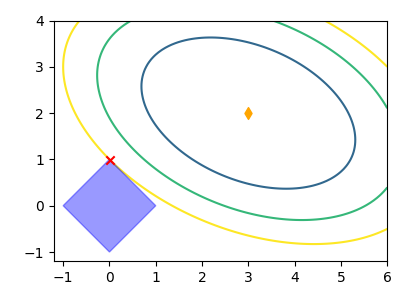
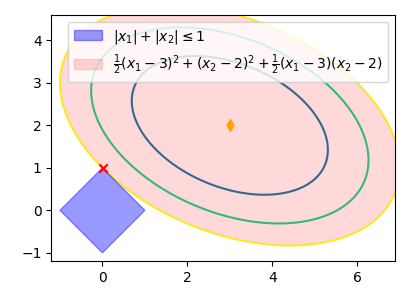
contour_plot.py: make more space to fit a legend with the objective + constraint, add red background for plotted function area, contour_plot.png: updated, README.rst: remove quad_norm.png

diff --git a/contour_plot.py b/contour_plot.py
@@ -25,7 +25,7 @@ import sys
 _HELP_MIN_POINT = """\
 Minimizer of the unconstrained problem. Should be in the format x1,x2. \
 """
-_HELP_THRESHOLD = "Maximum value the 2-norm of the solution can take."
+_HELP_THRESHOLD = "Maximum value the 1-norm of the solution can take."
 _HELP_FIG_HEIGHT = """\
 Height of the resulting figure in inches. The width of the figure is given \
 by (2 * x1 + 1.2 * THRESHOLD) * FIG_HEIGHT / (2 * x2 + 1.2 * THRESHOLD).\
@@ -100,7 +100,7 @@ def exec_main(
     min_point : tuple, default=(3, 2)
         Minimizer of the unconstrained problem.
     threshold : float, default=1.
-        Maximum 2-norm of the constrained solution.
+        Maximum 1-norm of the constrained solution.
     fig_height : float, default=3.
         Height of the resulting figure. The actual (width, height) of the
         figure is (2 * x1 + 1.2 * threshold, 2 * x2 + 1.2 * threshold) scaled
@@ -148,8 +148,8 @@ def exec_main(
     print(f"constrained solution:   {x_hat}")
     # x, y coordinate grids to plot objective contours over
     x_grid, y_grid = np.meshgrid(
-        np.linspace(-1.2 * threshold, 2 * x1, num=n_samples),
-        np.linspace(-1.2 * threshold, 2 * x2, num=n_samples)
+        np.linspace(-1.2 * threshold, 2.3 * x1, num=n_samples),
+        np.linspace(-1.2 * threshold, 2.3 * x2, num=n_samples)
     )
     # compute objective values on grid for contour plot
     f_vals = np.empty(x_grid.shape)
@@ -159,13 +159,14 @@ def exec_main(
     ## plotting of contours and constraints ##
     # compute width and height scaled so height = fig_height
     fwidth = (
-        (2 * x1 + 1.2 * threshold) * fig_height / (2 * x2 + 1.2 * threshold)
+        (2.3 * x1 + 1.3 * threshold) * fig_height / (2.3 * x2 + 1.3 * threshold)
     )
     fheight = fig_height
     # create figure using fwidth, fheight
     fig, ax = plt.subplots(figsize=(fwidth, fheight))
-    # plot norm constraint (plot above contours)
-    ax.add_patch(
+    # plot norm constraint (plot above contours). save the returned Patch so
+    # we can set its label for the legend later.
+    norm_patch = ax.add_patch(
         Polygon(
             np.array(
                 [
@@ -179,13 +180,36 @@ def exec_main(
     # plot the optimal unconstrained and constrained points (plot on top)
     ax.scatter(x1, x2, marker="d", c="orange", zorder=20)
     ax.scatter(x_hat[0], x_hat[1], marker="x", c="red", zorder=20)
-    # compute levels based on number of xticks. last level is objective value
     levels = np.linspace(
         0, quad_func(x_hat), num=int(0.6 * ax.get_xticks().size)
     )
-    # plot objective contours up to intersection and equalize axes scaling
+    # plot area covered by the objective contours. we save the QuadContourSet
+    # for when we need to set the labels in the legend later.
+    contourf_set = ax.contourf(
+        x_grid, y_grid, f_vals, levels=levels, alpha=0.15, colors="red"
+    )
+    # plot contours of the function itself
     ax.contour(x_grid, y_grid, f_vals, levels=levels)
+    # set labels for function highlight area under the contours and the norm
+    # constraint. to get the color entry in the legend, we make an empty
+    # Patch using a Polygon that is a single point with the same color.
+    dummy_patch = ax.add_patch(
+        Polygon(
+            np.zeros(4).reshape(2, 2),
+            # get_facecolor returns list of RGBA, so we drop a dimension
+            color=contourf_set.collections[0].get_facecolor().squeeze()
+        )
+    )
+    # order of setting labels matters, so set dummy_patch label first with the
+    # objective before setting the norm constraint label
+    dummy_patch.set_label(
+        r"$ \frac{1}{2}(x_1 - 3)^2 + (x_2 - 2)^2 + "
+        r"\frac{1}{2}(x_1 - 3)(x_2 - 2) $"
+    )
+    norm_patch.set_label(r"$ |x_1| + |x_2| \leq 1 $")
+    # equalize axes scaling + activate legends in bottom right
     ax.set_aspect("equal")
+    ax.legend()
     # make tight and save
     fig.tight_layout()
     fig.savefig(file_name)

diff --git a/README.rst b/README.rst
@@ -22,7 +22,7 @@ problem and generate the plot can be found in `my profile repository`__.
 
 .. __: https://github.com/phetdam/phetdam
 
-|problem| |contours|
+|contours|
 
 .. |problem| image:: https://raw.githubusercontent.com/phetdam/phetdam/master/
    quad_norm.png
